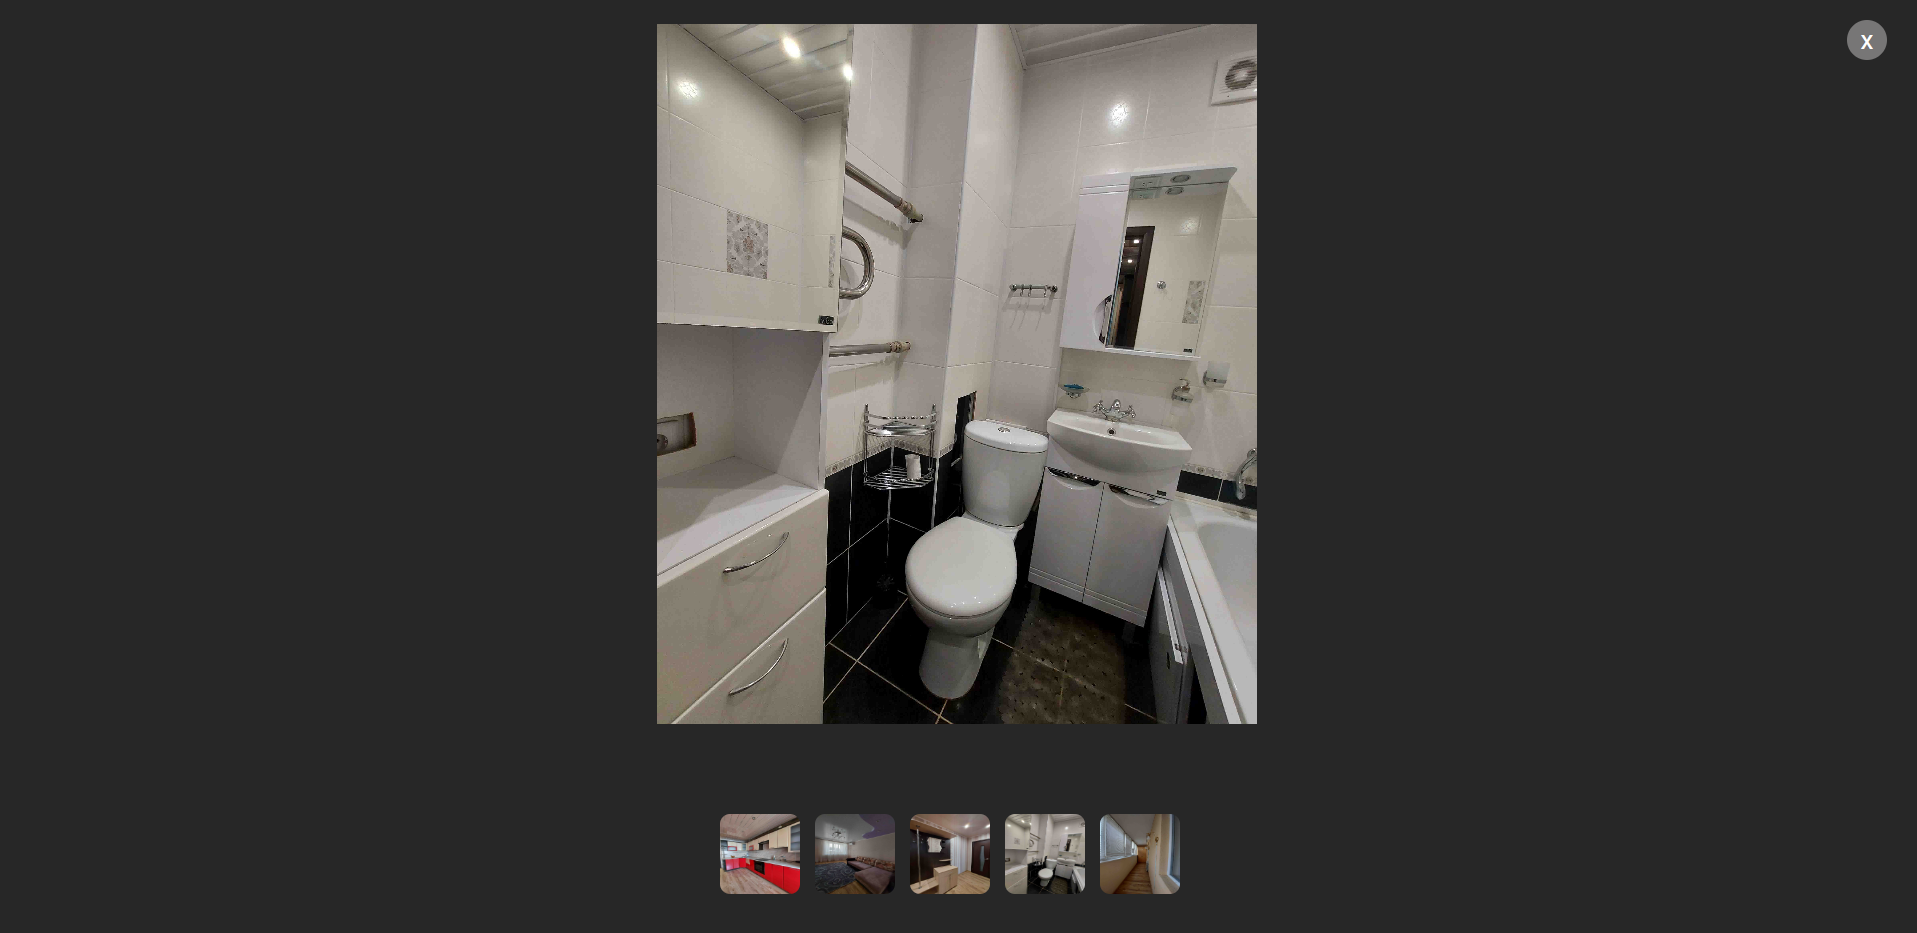
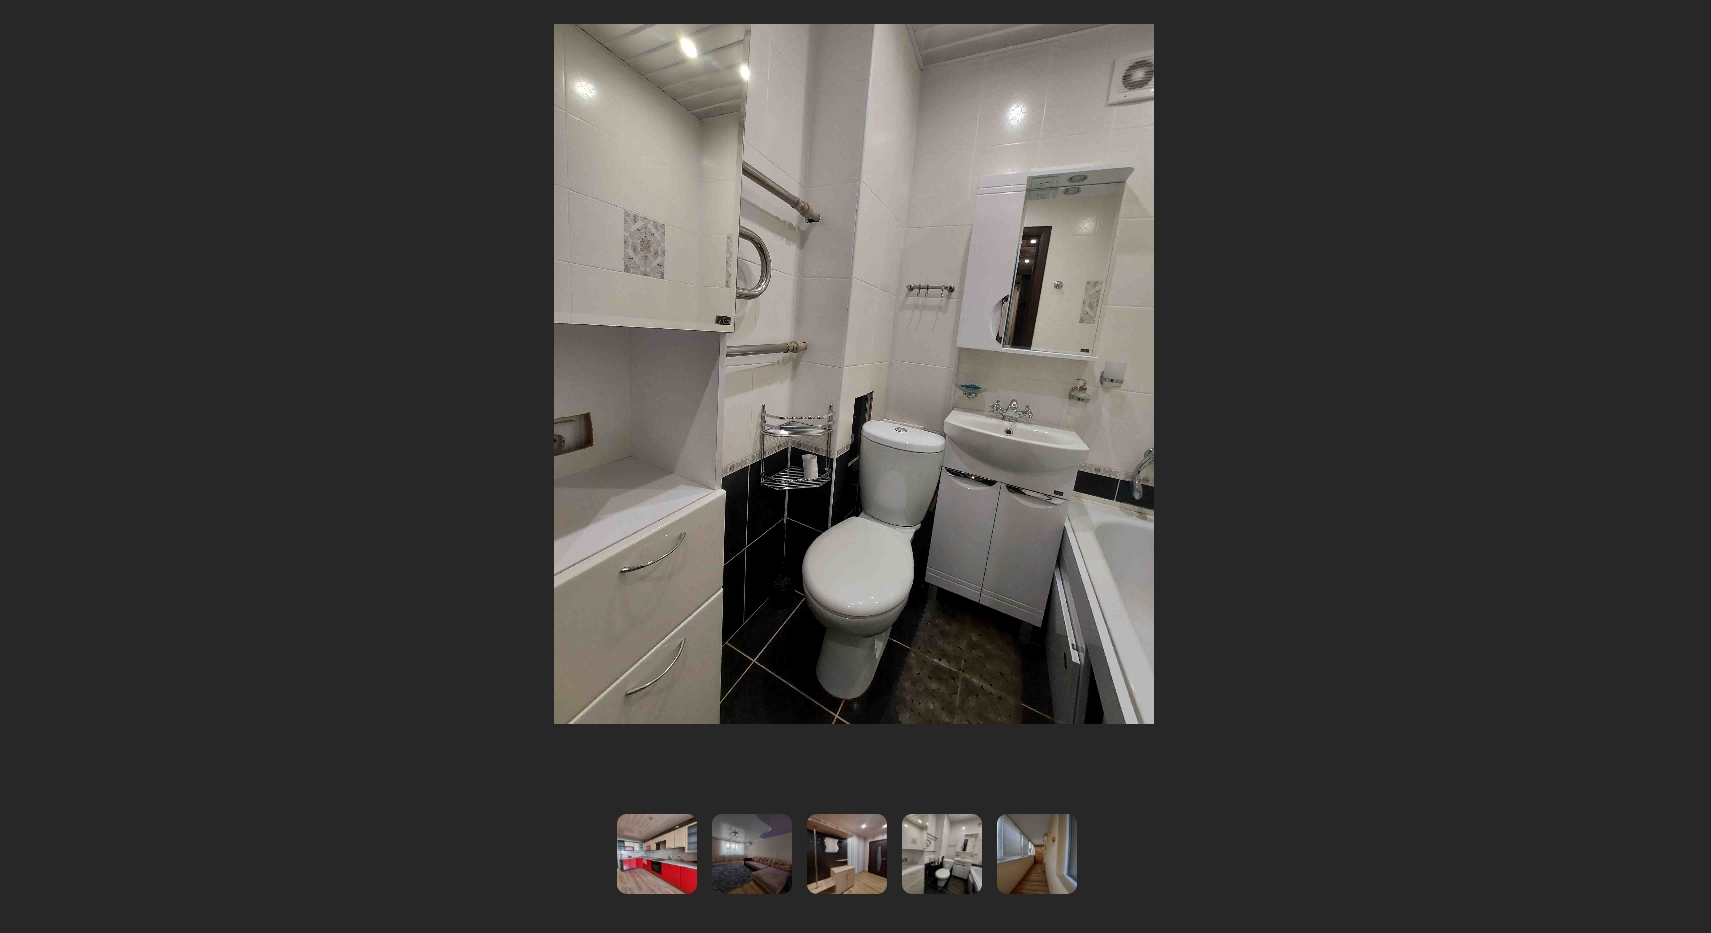
[fix] photo

Changed region(s): [[0.3098, 0.0, 0.6815, 0.7771], [0.3407, 0.8703, 0.6505, 0.9636], [0.9603, 0.0, 0.9912, 0.0622]]

diff --git a/src/app/constants/projects.ts b/src/app/constants/projects.ts
@@ -1,3 +1,5 @@
+// !!! ВНИМАНИЕ !!! id и serialNumber в проекте должны совпадать. id и serialNumber в массиве должны идти по порядку
+
 import { IProject, IProjectCard } from "../interfaces/projects.interface";
 
 export const projects: IProject[] = [
@@ -6,7 +8,7 @@ export const projects: IProject[] = [
         serialNumber: 1,
         title: 'Интернет магазин продажи цветов',
         description: 'Интернет магазин продажи цветов. В данном проекте реализована регистрация, авторизация пользователей, просмотр товаров, фильтрация товаров, корзина. Имеется админ панель, которая позволяет создавать контент: разделы меню, посты для CEO, товары с описанием и медиа информацией ',
-        stackExpand: 'NestJS, TypeScript, PostgreSQL, GraphQL, Apollo, Next.js, Redux Toolkit, Formik Axios, Jest, React Testing Library, Docker',
+        stackExpand: 'Nest.js, TypeScript, PostgreSQL, GraphQL, Apollo, Next.js, Redux Toolkit, Formik Axios, Jest, React Testing Library, Docker',
         gitUrl: 'https://github.com/alexsmith-proff/marketplace_of_flowers',
         media: 
         {
@@ -248,7 +250,7 @@ export const projects: IProject[] = [
         serialNumber: 3,
         title: 'Внутренний проект - Тестирование знаний по охране труда',
         description: 'Просто описание про Внутренний проект - Тестирование знаний по охране труда',
-        stackExpand: 'Express Next.js Redux MongoDB',
+        stackExpand: 'Express.js Next.js Redux MongoDB',
         media: {
             main: [
                 {
@@ -366,7 +368,7 @@ export const projects: IProject[] = [
         serialNumber: 5,
         title: 'Сайт агентства недвижимости',
         description: 'Просто описание про ДИВА недвижимость',
-        stackExpand: 'Express Next.js',
+        stackExpand: 'Express.js Next.js',
         media: {
             main: [
                 {
@@ -437,7 +439,7 @@ export const projects: IProject[] = [
         serialNumber: 6,
         title: 'Интернет магазин продажи строительных материалов',
         description: 'Просто описание про Интернет магазин продажи строительных материалов',
-        stackExpand: 'Express React',
+        stackExpand: 'Express.js React.js',
         media: {
             main: [
                 {
@@ -470,7 +472,7 @@ export const projectCards: IProjectCard[] = [
         id: 1,
         serialNumber: 1,
         title: 'Интернет магазин цветов',
-        stackShort: `NestJS Next.js PostgreSQL`,
+        stackShort: `Nest.js Next.js PostgreSQL`,
         bgFileName: '../img/marketplace_of_flowers/marketplace_of_flowers-bg.png'
     },
     {
@@ -484,8 +486,8 @@ export const projectCards: IProjectCard[] = [
         id: 3,
         serialNumber: 3,
         title: 'Тестирование по охране труда',
-        stackShort: `Express Next.js MongoDB`,
-        bgFileName: '../img/safety_and_health/safety_and_health-video.gif'
+        stackShort: `Express.js Next.js MongoDB`,
+        bgFileName: '../img/safety_and_health/safety_and_health-bg.png'
     },
     {
         id: 4,
@@ -497,15 +499,15 @@ export const projectCards: IProjectCard[] = [
     {
         id: 5,
         serialNumber: 5,
-        title: 'Сайт агентства недвижимостий',
-        stackShort: `Express Next.js`,
+        title: 'Сайт агентства недвижимости',
+        stackShort: `Express.js Next.js`,
         bgFileName: '../img/diva/diva-bg.png'
     },
     {
         id: 6,
         serialNumber: 6,
         title: 'Интернет магазин строительных материалов',
-        stackShort: `Express React`,
+        stackShort: `Express.js React.js`,
         bgFileName: '../img/magazin-stroy-master/magazin-stroy-master-bg.png'
     },
 ]

diff --git a/src/app/modules/about_screen/about_screen.tsx b/src/app/modules/about_screen/about_screen.tsx
@@ -12,16 +12,16 @@ const AboutScreen: FC = ({ }) => {
                     <div className={s.text}>Lorem ipsum dolor sit amet adipisicing elit. Ut suscipit aliquid voluptate laudantium, aspernatur culpa provident ad at quisquam nemo ratione quas temporibus quia, optio beatae delectus libero magnam ducimus est dignissimos labore? Dolorum nesciunt ex, aut quam laborum iure temporibus aliquam fuga itaque! Necessitatibus alias facere odio illum suscipit aspernatur officiis maiores culpa quis sequi. Distinctio voluptatibus nemo, quo explicabo quasi exercitationem minus rerum tempore debitis animi. Eum deserunt esse modi repellendus nostrum numquam ad perferendis quod expedita fuga?</div>
                     <ul className={s.photoList}>
                         <li className={`${s.photoItem} ${s.photo1}`}>
-                            <Image className={s.img} src={'/img/about/1.jpg'} width={405} height={400} alt="about-photo1" />
+                            <Image className={s.img} src={'/img/about/1.png'} width={405} height={400} alt="about-photo1" />
                         </li>
                         <li className={`${s.photoItem} ${s.photo2}`}>
-                            <Image className={s.img} src={'/img/about/2.jpg'} width={405} height={400} alt="about-photo1" />
+                            <Image className={s.img} src={'/img/about/2.png'} width={405} height={400} alt="about-photo1" />
                         </li>
                         <li className={`${s.photoItem} ${s.photo3}`}>
-                            <Image className={s.img} src={'/img/about/3.jpg'} width={405} height={400} alt="about-photo1" />
+                            <Image className={s.img} src={'/img/about/3.png'} width={405} height={400} alt="about-photo1" />
                         </li>
                         <li className={`${s.photoItem} ${s.photo4}`}>
-                            <Image className={s.img} src={'/img/about/4.jpg'} width={405} height={400} alt="about-photo1" />
+                            <Image className={s.img} src={'/img/about/4.png'} width={405} height={400} alt="about-photo1" />
                         </li>
                     </ul>
                 </div>

diff --git a/src/app/ui/project_card_item/project_card_item_ui.module.scss b/src/app/ui/project_card_item/project_card_item_ui.module.scss
@@ -6,10 +6,12 @@
     display: flex;
     justify-content: center;
     align-items: center;
+    border: 5px solid $light-color;
     border-radius: 40px;
     cursor: pointer;
-    transition: 0.7s;
+
     &:hover {
+        border: none;
         background: linear-gradient(var(--angle), $light-color, $bright-color1);
         animation: 5s rotate linear infinite;
     }
@@ -18,6 +20,8 @@
 .content {
     width: calc(290px - 10px);
     height: calc(320px - 10px);
+    background-size: cover;
+    background-repeat: no-repeat;
     border-radius: 37px;
     display: flex;
     flex-direction: column;
@@ -33,7 +37,6 @@
 }
 
 .blackout {
-    // display: none;
     opacity: 0;
     width: 100%;
     height: 100%;
@@ -47,9 +50,8 @@
     transition: 0.9s;
 }
 
-
 .title {
-    padding-top: 70px;
+    padding: 70px 10px 0px;
     font-size: 22px;
     font-weight: bold;
     line-height: 160%;
@@ -70,7 +72,8 @@
         margin-left: 15px;
     }
 }
-.item:hover .stack{
+
+.item:hover .stack {
     transition: 1.0s;
     opacity: 1;
 }

diff --git a/src/app/components/project_media/project_media.tsx b/src/app/components/project_media/project_media.tsx
@@ -39,7 +39,10 @@ const ProjectMedia: FC<ProjectMediaProps> = ({ project }) => {
     const handleClickNextProject = () => {
         const a = projects.find(item => item.serialNumber === project.serialNumber + 1)?.id
         if (project.serialNumber !== projects.length) {
-            router.push(`/project/${projects.find(item => item.serialNumber === project.serialNumber + 1)?.id}`)
+            const id = projects.find(item => item.serialNumber === project.serialNumber + 1)?.id
+            if (id) {
+                router.push(`/project/${projects.find(item => item.serialNumber === project.serialNumber + 1)?.id}`)
+            }
         } else {
             router.push(`/project/${projects.find(item => item.serialNumber === 1)?.id}`)
         }

diff --git a/src/app/components/images_popup/images_popup.module.scss b/src/app/components/images_popup/images_popup.module.scss
@@ -83,7 +83,7 @@
     img {
         width: 120px;
         height: 80px;
-        border: 3px solid transparent;
+        border: 3px solid $light-color;
     }
 
     & span:hover {
@@ -99,14 +99,18 @@
 }
 
 .icon {
-    width: 30px;
-    height: 30px;
+    width: 40px;
+    height: 40px;
     display: flex;
     justify-content: center;
     align-items: center;
     border-radius: 50%;
     position: absolute;
-    top: 50%;
+    top: calc(50% - 3px);
+    // padding: 1px;
+    background-color: #fff;
+    // top: 50%;
+    // transform: translateY(-15px);
     left: 50%;
     translate: -50% -50%;
 }

diff --git a/src/app/components/project_media_item/project_media_item.module.scss b/src/app/components/project_media_item/project_media_item.module.scss
@@ -4,6 +4,7 @@
     background: linear-gradient(var(--angle), $light-color, $bright-color1);
     border-radius: 10px;
     margin-bottom: 10px;
+    border: 2px solid $light-color;
 
     &.active {
         border: 3px solid $bright-color2;
